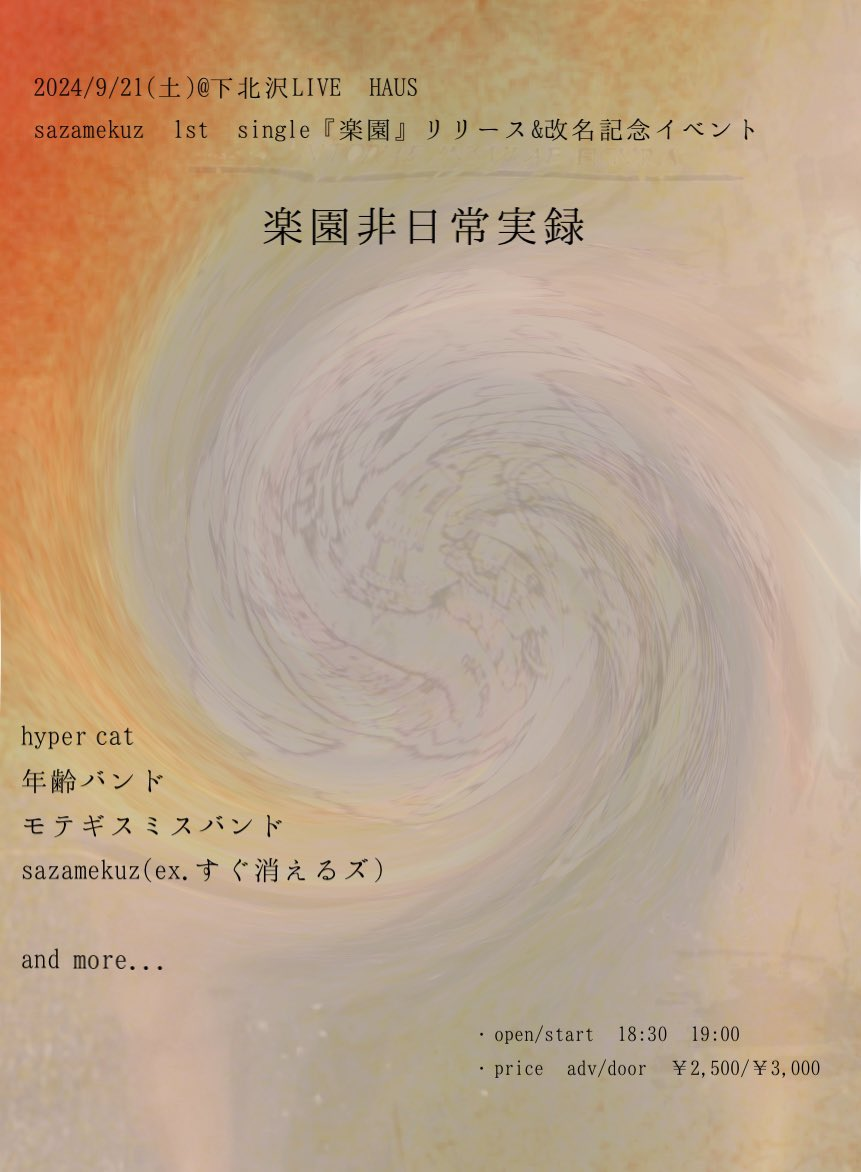
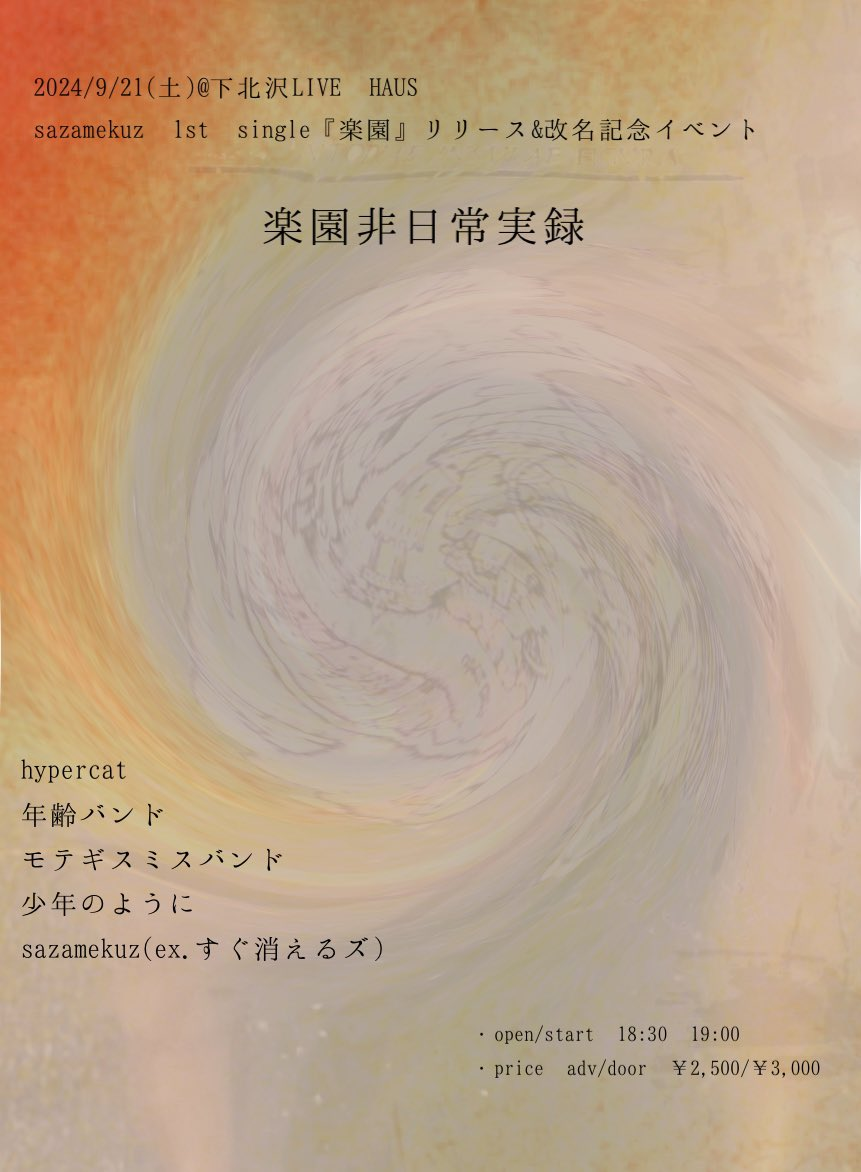
リンク先変更・リリース日変更お知らせ・921追加解禁fix#20

Changed region(s): [[0.0302, 0.6143, 0.3926, 0.8294], [0.2718, 0.7986, 0.4228, 0.8294]]

diff --git a/news/news_240821.html b/news/news_240821.html
@@ -5,22 +5,24 @@
     <meta http-equiv="X-UA-Compatible" content="IE=edge">
     <meta name="viewport" content="width=device-width, initial-scale=1.0">
     <meta name="format-detection" content="telephone=no">
-    <title>LIVE | sazamekuz</title>
+    <title>NEWS | sazamekuz</title>
     <!--サイト説明文-->
-    <meta name="description" content="福島県発。4ピースバンドsazamekuzです。。">
+    <meta name="description" content="福島県発。4ピースバンドsazamekuzです。">
     <meta http-equiv="Content-Style-Type" content="text/css">
-    <meta property="og:title" content="LIVE | sazamekuz">
+    <meta property="og:title" content="">
     <meta property="og:type" content="website">
     <meta property="og:url" content="https://sazamekuz.vercel.app/">
-    <meta property="og:image" content="./images/kv.jpg">
+    <meta property="og:image" content="../images/kv.jpg">
     <!--IE用互換表示の対応-->
     <meta http-equiv="x-ua-compatible" content="ie=edge">
     <!--ビューポート-->
     <meta name="viewport" content="width=device-width, initial-scale=1, shrink-to-fit=no">
     <!--リセットCSS-->
-    <link rel="stylesheet" href="css/reset.min.css">
+    <link rel="stylesheet" href="../css/reset.min.css">
     <!--ベースCSS-->
-    <link rel="stylesheet" href="css/base.css">
+    <link rel="stylesheet" href="../css/base.css">
+    <!--サイト用のstyle.css-->
+    <link rel="stylesheet" href="../css/style.css">
     <!--CDNやプラグインのCSS読み込み Google Fontsなど-->
     <link rel="preconnect" href="https://fonts.googleapis.com">
     <link rel="preconnect" href="https://fonts.gstatic.com" crossorigin>
@@ -41,10 +43,8 @@
     <script src="https://www.youtube.com/iframe_api"></script>
     <!--FontAwesome-->
     <script src="https://kit.fontawesome.com/4086eb9990.js" crossorigin="anonymous"></script>
-    <!--サイト用のstyle.css-->
-    <link rel="stylesheet" href="css/style.css">
     <!--ファビコン-->
-    <link rel="shortcut icon" href="images/favicon.jpg">
+    <link rel="shortcut icon" href="../images/favicon.jpg">
   </head>
   <!-- Google tag (gtag.js) -->
 <script async src="https://www.googletagmanager.com/gtag/js?id=G-LKVT3Z1CFE"></script>
@@ -62,14 +62,14 @@
       <nav class="gNav">
         <div class="gNav_all pcNav">
           <ul class="gNav_list wrapper">
-            <a href="index.html" class="logo"
-            ><img src="images/logo_b.png" alt=""></a>
-              <a href="live.html" class="gNav_item gNav_link">LIVE</a>
-              <a href="news.html" class="gNav_item gNav_link">NEWS</a>
-              <a href="movie.html" class="gNav_item gNav_link">MOVIE</a>
+            <a href="../index.html" class="logo"
+            ><img src="../images/logo_b.png" alt=""></a>
+              <a href="../live.html" class="gNav_item gNav_link">LIVE</a>
+              <a href="../news.html" class="gNav_item gNav_link">NEWS</a>
+              <a href="../movie.html" class="gNav_item gNav_link">MOVIE</a>
               <a href="https://sugukieruz.base.shop/" class="gNav_item gNav_link" target="_blank">GOODS</a>
-              <a href="biography.html" class="gNav_item gNav_link">BIOGRAPHY</a>
-              <a href="discography.html" class="gNav_item gNav_link">DISCOGRAPHY</a>
+              <a href="../biography.html" class="gNav_item gNav_link">BIOGRAPHY</a>
+              <a href="../discography.html" class="gNav_item gNav_link">DISCOGRAPHY</a>
               <a href="mailto:sazamekuz&#64;gmail.com" class="gNav_item contact">CONTACT</a>
           </ul>
         </div>
@@ -82,14 +82,14 @@
         </div>
         <div class="gNav_all spNav">
           <ul class="gNav_list flex wrapper">
-            <a href="index.html" class="logo"
-            ><img src="./images/logo_b.png" alt=""></a>
-              <a href="live.html" class="gNav_item gNav_link">LIVE</a>
-              <a href="news.html" class="gNav_item gNav_link">NEWS</a>
-              <a href="movie.html" class="gNav_item gNav_link">MOVIE</a>
+            <a href="../index.html" class="logo"
+            ><img src="../images/logo_b.png" alt=""></a>
+              <a href="../live.html" class="gNav_item gNav_link">LIVE</a>
+              <a href="../news.html" class="gNav_item gNav_link">NEWS</a>
+              <a href="../movie.html" class="gNav_item gNav_link">MOVIE</a>
               <a href="https://sugukieruz.base.shop/" class="gNav_item gNav_link" target="_blank">GOODS</a>
-              <a href="biography.html" class="gNav_item gNav_link">BIOGRAPHY</a>
-              <a href="discography.html" class="gNav_item gNav_link">DISCOGRAPHY</a>
+              <a href="../biography.html" class="gNav_item gNav_link">BIOGRAPHY</a>
+              <a href="../discography.html" class="gNav_item gNav_link">DISCOGRAPHY</a>
               <a href="mailto:sazamekuz&#64;gmail.com" class="gNav_item contact">CONTACT</a>
           </ul>
         </div>
@@ -98,48 +98,40 @@
     <!--メインコンテンツ-->
     <main>
         <!-- ライブ情報-->
-        <section class="contents wrapper_min" id="live">
+        <article class="wrapper_min" id="news_movie">
             <div class="title">
-                <h1 class="title_text">LIVE</h1>
+                <h1 class="title_text">NEWS</h1>
             </div>
-
-            <ul class="">
-              <a href="./live/live_241016.html">
-                <p>2024.10.16</p>
-                <p class="ellipsis">『THE WORLD IS MINE24』
+            <div>
+              <div class="detail_title">
+                <p>2024.8.21</p>
+                <p>1st single 『楽園』リリース日変更のお知らせ</p>
+              </div>
+              <div class="detale_all">
+                <p>9/1→9/5へと変更になります</p>
+                  <p>楽園<br>
+                  2.ダイヤモンド<br>
+                  3.teen age<br>
                 </p>
-              </a>
-              <a href="./live/live_240921.html">
-                <p>2024.9.21</p>
-                <p class="ellipsis">sazamekuz 1st single「楽園」リリース&改名記念イベント 楽園非日常実録
-                </p>
-              </a>
-              <a href="./live/live_240724.html">
-                <p>2024.7.24</p>
-                <p class="ellipsis">すぐ消えるズ × zanpan two-man live 『みちづれ その2』
-                </p>
-              </a>
-              <a href="./live/live_240505.html">
-                <p>2024.5.5</p>
-                <p class="ellipsis">"WE'RE IN WEARD TIME OF LIFE" 
-                </p>
-              </a>
-                <!-- <a href="./live/live_240406.html">
-                  <p>2024.4.6</p>
-                  <p class="ellipsis">『Feel So Good』@郡山PEAK ACTION</p>
-                </a> -->
-                <!-- <a href="./live/live_240406.html">
-                  <p>2023.12.13</p>
-                  <p class="ellipsis">『Feel So Good』
-                  </p>
-                </a> -->
-              </ul>
-              <a class="button_box" href="index.html">
-                <span>BACK</span>
-              </a>
-          </div>
-
-        </section>
+                <p>各種サブスクにて9/5に配信、その後自主企画や各ディストロ様にて順次販売となります。よろしくお願いします。</p>
+                <ul class="flex">
+                  <li id="" class="">
+                    <img src="../images/240821_1.jpeg" alt="">
+                  </li>
+        
+                  <li id="" class="">
+                    <img src="../images/240821_2.jpeg" alt="">
+                  </li>
+                </ul>
+              </div>
+            </div>
+            </div>
+            <a class="button_box" href="../index.html">
+              <span>BACK</span>
+            </a>
+        </article>
+        
+    </main>
 <section class="" id="sns">
     <ul class="">
       <a href="https://x.com/sazamekuz" target="_blank" id="x">
@@ -180,6 +172,6 @@
       <footer class="footer">
         <small>©2024 sazamekuz</small>
       </footer>
-      <script src="js/script.js"></script>
+      <script src="../js/script.js"></script>
     </body>
 </html>

diff --git a/index.html b/index.html
@@ -132,6 +132,10 @@
               <h1 class="title_text">NEWS</h1>
             </div>
             <ul class="">
+              <a href="./news/news_240821.html">
+                <p>2024.8.21</p>
+                <p class="ellipsis">1st single 『楽園』リリース日変更のお知らせ</p>
+              </a>
               <a href="./news/news_240809.html">
                 <p>2024.8.9</p>
                 <p class="ellipsis">楽園“のMusic Videoを公開しました。</p>
@@ -139,10 +143,6 @@
               <a href="./news/news_240801_2.html">
                 <p>2024.8.1</p>
                 <p class="ellipsis">sazamekuzとしての1st single「楽園」リリース&レコ発、改名記念イベントを開催</p>
-              </a>
-              <a href="./news/news_240801.html">
-                <p>2024.8.1</p>
-                <p class="ellipsis">バンド名変更のお知らせ</p>
               </a>
             </ul>
             <a class="button_box" href="news.html">

diff --git a/live/live_240921.html b/live/live_240921.html
@@ -122,8 +122,7 @@
                     <p>【料金】<br>
                       前売：¥2,500/当日：¥3,500</p>
                       <p>【共演者】<br>
-                        hyper cat/年齢バンド/モテギスミスバンド/sazamekuz(ex.すぐ消えるズ)/and more
-                      ...</p>
+                        hyper cat/年齢バンド/モテギスミスバンド/sazamekuz(ex.すぐ消えるズ)/少年のように🆕</p>
                         <p>【チケット購入方法】<br>
                         各バンド取り置き、DM、メールにて<br>
                         <a href="mailto:sugukieruz&#64;gmail.com" class="link">こちらからお取置き可能です。</a><br>

diff --git a/news.html b/news.html
@@ -103,6 +103,10 @@
             </div>
 
             <ul class="">
+              <a href="./news/news_240821.html">
+                <p>2024.8.21</p>
+                <p class="ellipsis">1st single 『楽園』リリース日変更のお知らせ</p>
+              </a>
               <a href="./news/news_240809.html">
                 <p>2024.8.1</p>
                 <p class="ellipsis">楽園“のMusic Videoを公開しました。</p>
